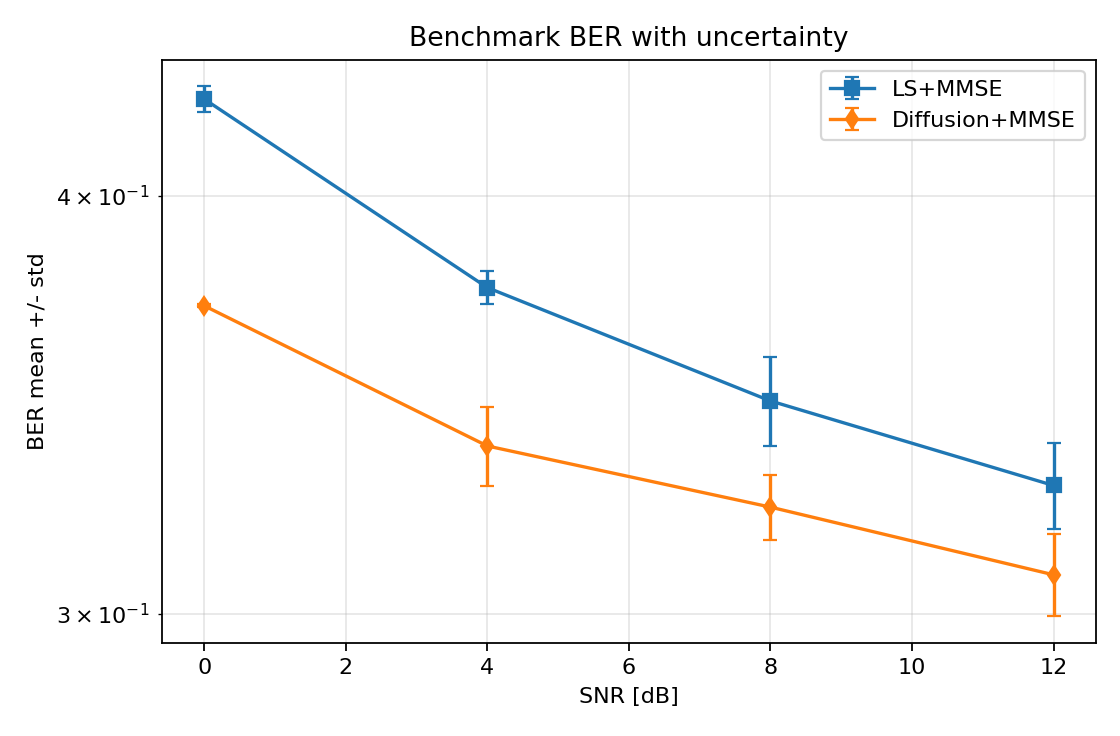
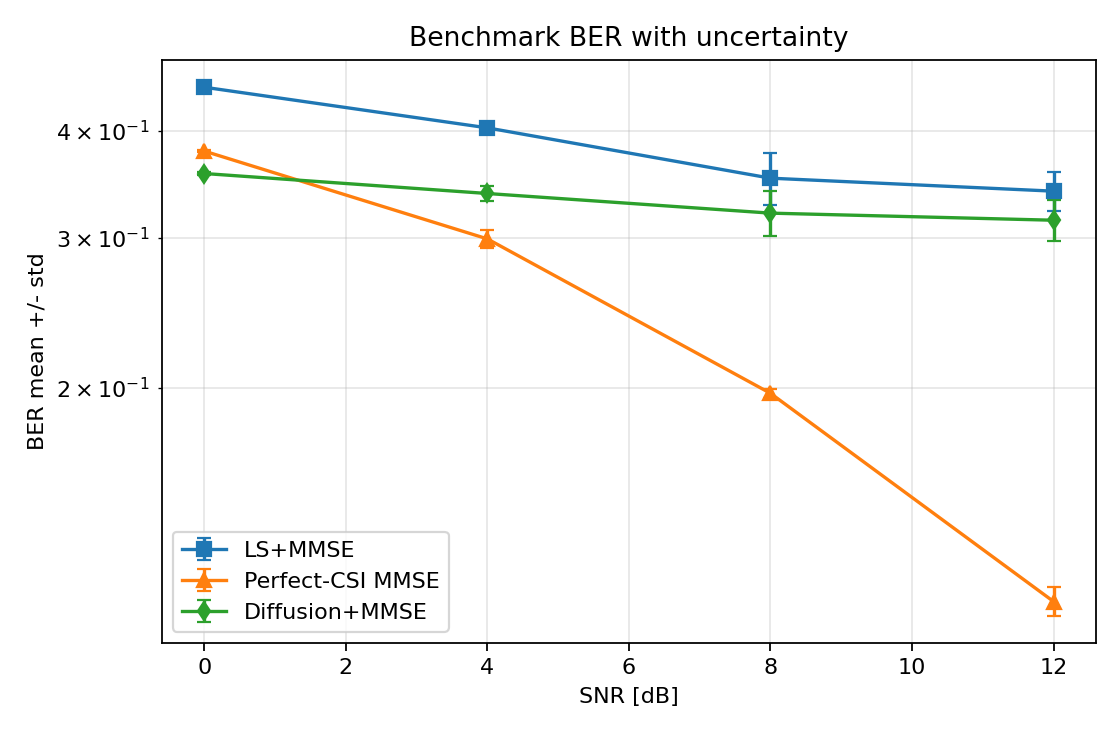
fix: correct mmse noise scaling and refresh fast-study results

diff --git a/src/classical_receiver.py b/src/classical_receiver.py
@@ -13,6 +13,7 @@ from src.estimation import interpolate_channel, ls_channel_estimate
 from src.metrics import bit_error_rate
 from src.ofdm import (
     build_ofdm_grid,
+    fft_noise_power,
     get_data_indices,
     get_pilot_indices,
     ofdm_demodulate,
@@ -60,9 +61,10 @@ def simulate_received_frame(cfg: dict, snr_db: float, bits_tx: torch.Tensor | No
     else:
         taps = generate_rayleigh_taps(n_taps, exp_decay, device)
     rx_time = apply_multipath(tx_time, taps)
-    rx_time, noise_power = add_awgn(rx_time, snr_db)
+    rx_time, noise_power_time = add_awgn(rx_time, snr_db)
 
     rx_grid = ofdm_demodulate(rx_time, n_sc, cp)
+    noise_power_freq = fft_noise_power(noise_power_time, n_sc)
     h_true = channel_frequency_response(taps, n_sc).unsqueeze(0).repeat(n_sym, 1)
 
     return {
@@ -74,7 +76,9 @@ def simulate_received_frame(cfg: dict, snr_db: float, bits_tx: torch.Tensor | No
         "tx_symbols": data_symbols,
         "rx_grid": rx_grid,
         "h_true": h_true,
-        "noise_power": noise_power,
+        "noise_power": noise_power_freq,
+        "noise_power_time": noise_power_time,
+        "noise_power_freq": noise_power_freq,
     }
 
 
@@ -115,6 +119,8 @@ def run_receiver_on_frame(frame: dict, method: str = "ls_mmse", perfect_csi: boo
         "h_true": h_true.detach().cpu(),
         "h_hat": h_hat.detach().cpu(),
         "noise_power": noise_power,
+        "noise_power_time": frame.get("noise_power_time", noise_power),
+        "noise_power_freq": frame.get("noise_power_freq", noise_power),
         "snr_db": frame["snr_db"],
     }
 

diff --git a/tests/test_phase1_classical.py b/tests/test_phase1_classical.py
@@ -5,7 +5,7 @@ import torch
 from src.classical_receiver import run_classical_frame, run_receiver_on_frame, simulate_received_frame
 from src.demapper import bits_to_qam16, qam16_to_bits
 from src.estimation import interpolate_channel, ls_channel_estimate
-from src.ofdm import get_pilot_indices
+from src.ofdm import fft_noise_power, get_pilot_indices
 from src.utils import load_config, set_seed
 
 
@@ -26,6 +26,20 @@ def test_awgn_high_snr_near_zero_ber():
 
     out = run_classical_frame(cfg, snr_db=30.0, method="perfect_mmse", perfect_csi=True)
     assert out["ber"] < 1e-3
+
+
+def test_perfect_mmse_moderate_snr_is_reasonable():
+    set_seed(11)
+    cfg = copy.deepcopy(load_config())
+    cfg["channel"]["n_taps"] = 1
+    cfg["ofdm"]["n_ofdm_symbols"] = 12
+
+    bers = []
+    for _ in range(8):
+        out = run_classical_frame(cfg, snr_db=12.0, method="perfect_mmse", perfect_csi=True)
+        bers.append(out["ber"])
+
+    assert sum(bers) / len(bers) < 0.15
 
 
 def test_ls_mse_scales_with_noise_power():
@@ -94,6 +108,10 @@ def test_cyclic_interpolation_handles_band_edge():
 
     # Between k=4 and k=0 (wrapped via k=8), interpolation should decrease linearly: k=6 -> 2.
     assert torch.isclose(h_full[0, 6].real, torch.tensor(2.0), atol=1e-4)
+
+
+def test_fft_noise_power_matches_backward_fft_scaling():
+    assert fft_noise_power(0.25, 64) == 16.0
 
 
 def test_non_uniform_bit_source_respects_probability():

diff --git a/scripts/plot_benchmark.py b/scripts/plot_benchmark.py
@@ -24,6 +24,8 @@ def main():
     snr = [float(r["snr_db"]) for r in rows]
     mmse = [float(r["ls_mmse_mean"]) for r in rows]
     mmse_std = [float(r["ls_mmse_std"]) for r in rows]
+    perfect = [float(r["perfect_mmse_mean"]) for r in rows]
+    perfect_std = [float(r["perfect_mmse_std"]) for r in rows]
     diff = [float(r["diffusion_mmse_mean"]) for r in rows]
     diff_std = [float(r["diffusion_mmse_std"]) for r in rows]
     delta = [float(r["delta_diff_minus_mmse_mean"]) for r in rows]
@@ -31,6 +33,7 @@ def main():
 
     plt.figure(figsize=(7, 4.6))
     plt.errorbar(snr, mmse, yerr=mmse_std, marker="s", capsize=3, label="LS+MMSE")
+    plt.errorbar(snr, perfect, yerr=perfect_std, marker="^", capsize=3, label="Perfect-CSI MMSE")
     plt.errorbar(snr, diff, yerr=diff_std, marker="d", capsize=3, label="Diffusion+MMSE")
     plt.yscale("log")
     plt.xlabel("SNR [dB]")

diff --git a/src/ofdm.py b/src/ofdm.py
@@ -32,6 +32,16 @@ def build_ofdm_grid(
     return grid
 
 
+def fft_noise_power(noise_power_time: float, n_subcarriers: int, fft_norm: str = "backward") -> float:
+    if fft_norm == "backward":
+        return float(noise_power_time) * float(n_subcarriers)
+    if fft_norm == "ortho":
+        return float(noise_power_time)
+    if fft_norm == "forward":
+        return float(noise_power_time) / float(n_subcarriers)
+    raise ValueError(f"Unsupported fft_norm: {fft_norm}")
+
+
 def ofdm_modulate(grid: torch.Tensor, cp_length: int) -> torch.Tensor:
     time_no_cp = torch.fft.ifft(grid, dim=-1)
     cp = time_no_cp[:, -cp_length:]

diff --git a/scripts/benchmark.py b/scripts/benchmark.py
@@ -106,6 +106,7 @@ def main():
                 "n_frames_per_seed",
             ]
         )
+        f.flush()
 
         for snr_db in snr_grid(cfg):
             zf_seed_means = []
@@ -178,10 +179,12 @@ def main():
                     args.n_frames,
                 ]
             )
+            f.flush()
 
             print(
                 f"snr={snr_db:.1f} "
                 f"mmse={mmse_mean:.4e}±{mmse_std:.2e} "
+                f"perfect={genie_mean:.4e}±{genie_std:.2e} "
                 f"diff={diff_mean:.4e}±{diff_std:.2e} "
                 f"delta(diff-mmse)={delta_mean:.4e}±{delta_std:.2e}"
             )

diff --git a/README.md b/README.md
@@ -9,14 +9,18 @@ Current project snapshot:
 - This project contains an end-to-end, reproducible CP-OFDM receiver stack (classical + diffusion post-denoising).
 - This project includes LS+ZF, LS+MMSE, and Perfect-CSI+MMSE baselines validated with tests and CI.
 - This project includes DDPM-style denoisers trained on equalized 16-QAM symbols and benchmarked via BER/SER vs SNR.
+- This project now corrects FFT-domain MMSE noise scaling, so the classical baseline is physically consistent between time-domain AWGN injection and frequency-domain equalization.
 - Main achieved result: diffusion gain is regime-dependent.
 - In uniform symbol-prior settings (`bit_one_prob=0.5`), diffusion does not beat LS+MMSE in the fast benchmark.
 - In non-IID settings (`bit_one_prob=0.2`), diffusion consistently beats LS+MMSE across tested SNR points.
+- Perfect-CSI MMSE remains much better than LS+MMSE, which makes channel estimation and pilot interpolation the next clear classical bottleneck.
 - The README includes reproducible commands, plots, and config files for both regimes.
 
 Main result in one figure (MMSE vs Diffusion):
 
 ![Non-IID prior benchmark](imgs/case_study/non_iid_fast_ber_errorbars.png)
+
+The benchmark plots now also include `Perfect-CSI MMSE` as a diagnostic reference, so the gap between channel-estimation-limited performance and the genie baseline is visible directly.
 
 This repository is designed to reproduce the core idea from **CDDM (Wu et al., IEEE TWC 2024)** in a clean and modular way:
 
@@ -433,6 +437,7 @@ One-command paths:
 Optional speed-up for long runs:
 
 - add `SKIP_PLOTS=1` to defer plotting and only generate numeric summaries first.
+- add `FORCE_TRAIN=1` after receiver/model changes to avoid reusing stale checkpoints.
 
 Outputs:
 
@@ -467,16 +472,24 @@ Observed deltas:
 
 | SNR (dB) | Uniform `p=0.5` | Non-IID `p=0.2` |
 |---|---:|---:|
-| 0 | `+2.19e-02` | `-5.66e-02` |
-| 4 | `+1.89e-02` | `-3.87e-02` |
-| 8 | `+2.66e-02` | `-2.45e-02` |
-| 12 | `+2.13e-02` | `-1.95e-02` |
+| 0 | `+2.72e-02` | `-9.35e-02` |
+| 4 | `+3.37e-02` | `-6.55e-02` |
+| 8 | `+3.00e-02` | `-3.17e-02` |
+| 12 | `+2.17e-02` | `-2.56e-02` |
 
 This directly supports the intuition: the diffusion advantage is much stronger when the received symbol stream has informative (non-uniform) prior structure.
+
+Important receiver-side interpretation:
+
+- The FFT/MMSE noise-scaling bug in the classical chain has been fixed, so these numbers reflect a consistent time-domain-to-frequency-domain noise model.
+- Even after that fix, `Perfect-CSI MMSE` is still far below `LS+MMSE`, so the dominant reason for the remaining high absolute BER is now channel estimation / pilot interpolation, not the equalizer regularization term alone.
+- The x-axis is currently a waveform-level SNR derived from measured time-domain signal power in `add_awgn(...)`; it is not yet presented as an explicit `Eb/N0` axis.
 
 ### 14.4 Visuals
 
 Main comparison plots (MMSE vs Diffusion):
+
+Each BER plot also includes the `Perfect-CSI MMSE` reference curve for diagnosis.
 
 Uniform benchmark:
 
@@ -501,6 +514,7 @@ Main entrypoint:
 Optional speed-up:
 
 - `make prior-sweep SKIP_PLOTS=1`
+- add `FORCE_TRAIN=1` when the training distribution or receiver internals changed.
 
 The script trains one model per `bit_one_prob`, benchmarks each model, writes `prior_sweep_summary.csv`, and plots diffusion gain against the prior.
 
